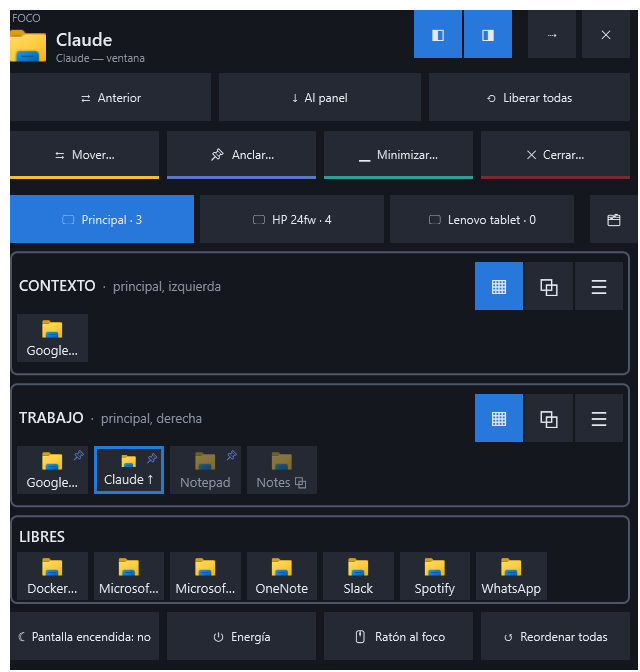
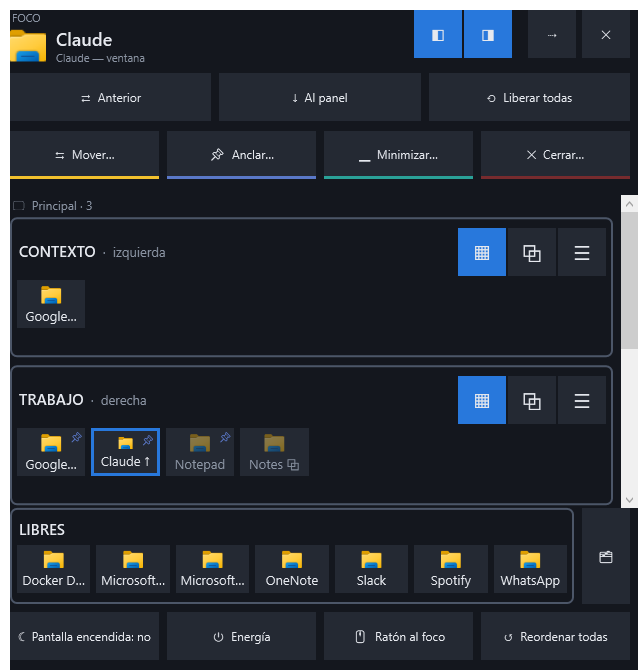
Alfa 0.6.0: todos los monitores en el deck a la vez

diff --git a/src/FocusWShell.App/DeckWindow.cs b/src/FocusWShell.App/DeckWindow.cs
@@ -508,27 +508,43 @@ public sealed class DeckWindow : Window
         }
         else
         {
+            // Todos los monitores no caben en un deck estrecho: la zona de los paneles se desplaza con el dedo,
+            // y debajo quedan fijos LIBRES y Sistema. Cada panel mide lo que piden sus apps.
+            var list = new StackPanel();
             foreach (var (monitor, panels) in monitors)
             {
                 if (monitors.Count > 1)
                 {
-                    row(new TextBlock
+                    list.Children.Add(new TextBlock
                     {
                         Text = monitor.Connected ? $"🖵  {monitor.Name} · {monitor.Apps}" : Core.Text.F(Strings.Deck_TabDisconnected, monitor.Name),
                         Foreground = monitor.Connected ? DimBrush : WarnBrush,
                         FontSize = 12,
                         Margin = new Thickness(2, 2, 0, 4),
-                    }, GridLength.Auto, 0);
+                    });
                 }
 
                 foreach (var panel in panels)
                 {
-                    row(PanelCard(panel), new GridLength(1 + panel.Apps.Count, GridUnitType.Star), 132);
+                    var card = PanelCard(panel);
+                    int rows = Math.Max(1, (int)Math.Ceiling(Visible(panel.Apps).Count / 6.0));
+                    card.Height = 70 + (70 * rows);
+                    list.Children.Add(card);
                 }
             }
+
+            var scroller = new ScrollViewer
+            {
+                Content = list,
+                VerticalScrollBarVisibility = ScrollBarVisibility.Auto,
+                HorizontalScrollBarVisibility = ScrollBarVisibility.Disabled,
+                Focusable = false,
+            };
+            DragToScroll(scroller);
+            row(scroller, new GridLength(3, GridUnitType.Star), 140);
         }
 
-        row(FreeAndPages(state, wide: false), new GridLength(1 + (state.Free.Count / 2.0), GridUnitType.Star), state.Free.Count > 0 ? 90 : 60);
+        row(FreeAndPages(state, wide: false), new GridLength(state.Free.Count > 0 ? 1 : 0.5, GridUnitType.Star), state.Free.Count > 0 ? 100 : 60);
     }
 
     // --- Pestañas por monitor -------------------------------------------------------------------------

diff --git a/src/FocusWShell.App/DeckPreview.cs b/src/FocusWShell.App/DeckPreview.cs
@@ -14,10 +14,12 @@ namespace FocusWShell.App;
 /// </summary>
 public static class DeckPreview
 {
-    /// <summary>Si se dibuja el prototipo del ADR 0020 (monitores apilados) en lugar del deck actual.</summary>
-    private static bool _stacked;
+    /// <summary>Monitores apilados (ADR 0020, el de siempre) o una pestaña por monitor (<c>--pestanas</c>).</summary>
+    private static bool _stacked = true;
 
-    public static void Run(string folder, string? language = null, bool stacked = false)
+    /// <param name="tabs">Dibujar el deck con una pestaña por monitor, como antes del ADR 0020.</param>
+    /// <param name="stackedCases">Sólo los casos que deciden el diseño apilado: dos y tres monitores, muchas apps…</param>
+    public static void Run(string folder, string? language = null, bool tabs = false, bool stackedCases = false)
     {
         if (language is not null)
         {
@@ -25,12 +27,14 @@ public static class DeckPreview
         }
 
         Directory.CreateDirectory(folder);
-        _stacked = stacked;
-        if (stacked)
+        _stacked = !tabs;
+        if (stackedCases)
         {
+            _stacked = true;
             RunStacked(folder);
             return;
         }
+
         var sizes = new[] { ("tablet-entera", 1280, 672), ("media-tablet", 640, 672), ("esquina", 640, 980) };
         foreach (var (name, width, height) in sizes)
         {

diff --git a/src/FocusWShell.App/App.xaml.cs b/src/FocusWShell.App/App.xaml.cs
@@ -159,12 +159,13 @@ public partial class App : Application
         int preview = Array.IndexOf(e.Args, "--deck-preview");
         if (preview >= 0)
         {
-            // "--apilado": el prototipo del ADR 0020 (todos los monitores a la vez, uno arriba del otro).
-            var rest = e.Args.Skip(preview + 1).Where(a => a != "--apilado").ToList();
+            // "--apilado": sólo los casos del diseño apilado (ADR 0020); "--pestanas": el deck con una pestaña por monitor.
+            var rest = e.Args.Skip(preview + 1).Where(a => a is not "--apilado" and not "--pestanas").ToList();
             DeckPreview.Run(
                 rest.Count > 0 ? rest[0] : System.IO.Path.GetTempPath(),
                 rest.Count > 1 ? rest[1] : null,
-                stacked: e.Args.Contains("--apilado"));
+                tabs: e.Args.Contains("--pestanas"),
+                stackedCases: e.Args.Contains("--apilado"));
             Shutdown();
             return;
         }

diff --git a/.github/release-notes/v0.6.0-alpha.md b/.github/release-notes/v0.6.0-alpha.md
@@ -1,0 +1,73 @@
+**FocusWShell 0.6.0-alpha: every monitor in the deck at once, and apps that FocusWShell could not see.** [Español más abajo](#español).
+
+> **It moves your windows.** If anything goes wrong, **Ctrl+Alt+Shift+Backspace** puts every window back where it was, at any time.
+
+## What's new
+
+### Every monitor at once
+
+The deck no longer has a tab per monitor. Every monitor is shown at once, one above the other: its name runs down the left side, and its panels sit side by side in their real order.
+
+- **Every panel is one tap away.** To reach an app on another monitor you no longer switch tabs first.
+- **Moving an app is simpler:** every panel of every monitor is a target at once.
+- **🗂 Pages** moved to the right of **Free**.
+- **On a narrow deck** (half a tablet, a corner of the main screen), the panels scroll with your finger and Free stays below.
+- Prefer the old way? Turn off **Deck: all monitors at once** in **General**.
+
+### Apps that run as administrator
+
+Some apps run as administrator (SADP, for example). Windows doesn't let FocusWShell move them, so they didn't show up in the deck. Now they appear in **Free**, dimmed and with **🛡**, and tapping one brings it to the front. Borderless apps with a minimize button (Qt) are no longer ignored either.
+
+If an app doesn't really need to be administrator, turn off *Run this program as an administrator* in its properties (Compatibility), and FocusWShell organizes it like the rest.
+
+### Store apps with their real name and icon
+
+Some Store apps don't tell Windows which app they are (WhatsApp is one). They showed an internal name ("WhatsApp.Root") and a generic icon; now they take the name and icon of the Start menu.
+
+## Install or update
+
+1. Download `FocusWShell-0.6.0-alpha-win-x64.zip` below.
+2. Extract it to a **new** folder and double-click **install.cmd**. If an earlier version is open, the installer closes it first (putting your windows back) and keeps your settings.
+
+Windows 10 (2004) or 11, 64-bit. No administrator rights; .NET is included. The files are not signed: if Windows shows *"Windows protected your PC"*, choose **More info → Run anyway**. Check the download with the `.sha256` file.
+
+New to FocusWShell? Start with **[Getting started](https://proteo5.github.io/FocusWShell/first-steps/)**. Known limitations: see [Known limitations](https://proteo5.github.io/FocusWShell/limitations/). Please report problems and ideas in [Issues](https://github.com/proteo5/FocusWShell/issues).
+
+---
+
+## Español
+
+**FocusWShell 0.6.0-alpha: todos los monitores en el deck a la vez, y apps que FocusWShell no veía.**
+
+> **Mueve tus ventanas.** Si algo sale mal, **Ctrl+Alt+Mayús+Retroceso** devuelve todas las ventanas a su sitio, en cualquier momento.
+
+### Novedades
+
+#### Todos los monitores a la vez
+
+El deck ya no tiene una pestaña por monitor. Se ven todos los monitores a la vez, uno arriba del otro: su nombre va en vertical a la izquierda, y sus paneles van lado a lado en su orden real.
+
+- **Todos los paneles están a un toque.** Para llegar a una app de otro monitor ya no hay que cambiar de pestaña.
+- **Mover una app es más simple:** todos los paneles de todos los monitores son destino a la vez.
+- **🗂 Páginas** pasó a la derecha de **Libres**.
+- **En un deck estrecho** (media tablet, una esquina del principal), los paneles se desplazan con el dedo y Libres queda abajo.
+- ¿Prefieres lo de antes? Apaga **Deck: todos los monitores a la vez** en **General**.
+
+#### Apps que corren como administrador
+
+Algunas apps corren como administrador (SADP, por ejemplo). Windows no deja que FocusWShell las mueva, así que no salían en el deck. Ahora aparecen en **Libres**, atenuadas y con **🛡**, y tocarlas las trae al frente. Tampoco se ignoran ya las apps sin marco con botón de minimizar (Qt).
+
+Si una app no necesita de verdad ser administrador, quita *Ejecutar este programa como administrador* en sus propiedades (Compatibilidad), y FocusWShell la organiza como a las demás.
+
+#### Apps de la Store con su nombre y su icono
+
+Algunas apps de la Store no le dicen a Windows qué app son (WhatsApp es una). Salían con un nombre interno («WhatsApp.Root») y un icono genérico; ahora toman el nombre y el icono del menú Inicio.
+
+### Instalar o actualizar
+
+1. Descarga `FocusWShell-0.6.0-alpha-win-x64.zip` más abajo.
+2. Descomprímelo en una carpeta **nueva** y haz doble clic en **install.cmd**. Si hay una versión anterior abierta, el instalador la cierra antes (devolviendo tus ventanas) y conserva tu configuración.
+
+Windows 10 (2004) u 11, de 64 bits. Sin permisos de administrador; .NET va incluido. Los archivos no están firmados: si Windows muestra *«Windows protegió tu PC»*, elige **Más información → Ejecutar de todas formas**. Comprueba la descarga con el archivo `.sha256`.
+
+¿Nuevo en FocusWShell? Empieza por **[Primeros pasos](https://proteo5.github.io/FocusWShell/es/primeros-pasos/)**. Limitaciones conocidas: ver [Limitaciones conocidas](https://proteo5.github.io/FocusWShell/es/limitaciones/). Reporta problemas e ideas en [Issues](https://github.com/proteo5/FocusWShell/issues).

diff --git a/site/es/deck.md b/site/es/deck.md
@@ -32,7 +32,7 @@ En su panel, la app del foco lleva un borde azul y **↑**.
 
 **Mover…**, **Anclar…**, **Minimizar…** y **Cerrar…** no actúan al momento: esperan a que toques una app, como Mayús espera una tecla. Los «…», la barra de color debajo y su sitio los distinguen.
 
-- **Mover…** (amarillo): toca una app y luego el panel donde va. La pestaña de otro monitor también sirve, y el foco también: lleva la app al foco.
+- **Mover…** (amarillo): toca una app y luego el panel donde va. Todos los paneles de todos los monitores son destino a la vez, y el foco también: lleva la app al foco.
 - **Anclar…** (índigo): toca una app para anclarla a su panel. Una app anclada sigue en su panel aunque esté cerrada, atenuada, y tocarla la abre ahí.
 - **Minimizar…** (verde azulado): toca una app para minimizarla en su panel. Si ya estaba minimizada, vuelve. El modo se apaga después de un toque, como **Cerrar…**.
 - **Cerrar…** (rojo): toca una app para cerrarla, como con su ✕. Si tiene algo sin guardar, la app pregunta.
@@ -47,7 +47,7 @@ Prende o apaga las columnas de **Contexto** y **Trabajo** del monitor principal 
 
 ## Monitores y paneles
 
-La fila de pestañas de arriba elige de qué monitor ves los paneles. Cada panel muestra sus apps:
+Se ven todos los monitores a la vez, uno arriba del otro: su nombre va en vertical a la izquierda, y sus paneles van lado a lado en su orden real (izquierda, derecha). Si prefieres lo de antes, una pestaña por monitor, apaga **Deck: todos los monitores a la vez** en General. Cada panel muestra sus apps:
 
 - **Toca una app:** al foco. Una libre sólo se trae al frente, y sigue libre.
 - **En un panel en pestañas (o Llenar):** la pestaña que se ve va subrayada. Toca una oculta para verla en su panel y escribir en ella, sin moverla al foco: trabajas en el foco y en ella a la vez. Toca la que se ve para llevarla al foco. Los iconos no cambian de lugar, y la app que sale del foco vuelve como la pestaña que se ve.
@@ -66,8 +66,9 @@ Marcas en una app:
 | ⧉ | Abierta en otro escritorio virtual; tocarla te lleva allí. |
 | ▴ | En la bandeja: la app ocultó su ventana al cerrarla, pero sigue abierta. Tocarla abre la app otra vez, y la app muestra su ventana en el foco. |
 | Borde blanco | En uso: tiene el teclado y el ratón, pero no es la del foco. |
+| 🛡, atenuada (en Libres) | Corre como administrador: FocusWShell no puede moverla. Tocarla la trae al frente. |
 
-**🗂 Páginas**, a la derecha de las pestañas de monitores, muestra las pestañas de tus navegadores. Ver [Páginas de los navegadores]({{ '/es/paginas/' | relative_url }}).
+**🗂 Páginas**, a la derecha de Libres, muestra las pestañas de tus navegadores. Ver [Páginas de los navegadores]({{ '/es/paginas/' | relative_url }}).
 
 ## Libres
 

diff --git a/site/deck.md b/site/deck.md
@@ -32,7 +32,7 @@ In its panel, the focus app has a blue border and **↑**.
 
 **Move…**, **Pin…**, **Minimize…** and **Close…** do not act right away: they wait for you to tap an app, like Shift waits for a key. The «…», the colored bar under them and their position tell them apart.
 
-- **Move…** (yellow): tap an app, then the panel where it goes. Another monitor's tab works too, and so does the focus: it brings the app to the focus.
+- **Move…** (yellow): tap an app, then the panel where it goes. Every panel of every monitor is a target at once, and so is the focus: it brings the app to the focus.
 - **Pin…** (indigo): tap an app to pin it to its panel. A pinned app stays in its panel even when closed, dimmed, and tapping it opens it there.
 - **Minimize…** (teal): tap an app to minimize it in its panel. If it was already minimized, it comes back. The mode turns off after one tap, like **Close…**.
 - **Close…** (red): tap an app to close it, as with its ✕. If it has unsaved work, the app asks.
@@ -47,7 +47,7 @@ Turn the **Context** and **Work** columns of the main screen on or off (blue: on
 
 ## Monitors and panels
 
-The row of tabs at the top chooses which monitor's panels you see. Each panel shows its apps:
+Every monitor is shown at once, one above the other: its name runs down the left side, and its panels sit side by side in their real order (left, right). If you prefer the old way, one tab per monitor, turn off **Deck: all monitors at once** in General. Each panel shows its apps:
 
 - **Tap an app:** to the focus. A free one is only brought to the front, and stays free.
 - **In a panel in tabs (or Fill):** the tab you see is underlined. Tap a hidden one to show it in its panel and type in it, without moving it to the focus: you work in the focus and in it at the same time. Tap the one you see to bring it to the focus. The icons keep their place, and the app that leaves the focus comes back as the tab you see.
@@ -66,8 +66,9 @@ Marks on an app:
 | ⧉ | Open on another virtual desktop; tapping it takes you there. |
 | ▴ | In the tray: the app hid its window when you closed it, but it is still running. Tapping it opens the app again, and the app shows its window in the focus. |
 | White border | In use: it has the keyboard and mouse, but it is not the focus app. |
+| 🛡, dimmed (in Free) | Runs as administrator: FocusWShell can't move it. Tapping it brings it to the front. |
 
-**🗂 Pages**, at the right of the monitor tabs, shows the tabs of your browsers. See [Browser pages]({{ '/browser-pages/' | relative_url }}).
+**🗂 Pages**, at the right of Free, shows the tabs of your browsers. See [Browser pages]({{ '/browser-pages/' | relative_url }}).
 
 ## Free
 

diff --git a/CHANGELOG.md b/CHANGELOG.md
@@ -4,10 +4,15 @@ All notable changes to FocusWShell. Each release has its notes in [`.github/rele
 
 Todos los cambios importantes de FocusWShell. Cada versión tiene sus notas en [`.github/release-notes/`](.github/release-notes/).
 
-## Unreleased / Sin publicar
+## 0.6.0-alpha
 
+The deck shows every monitor at once, and apps that FocusWShell could not see now show up. / El deck muestra todos los monitores a la vez, y aparecen apps que FocusWShell no veía.
+
+- The deck shows every monitor at once, one above the other, without tabs: every panel is one tap away, and when moving an app all panels are targets. Pages moved to the right of Free. To go back to one tab per monitor, turn off "Deck: all monitors at once" in General. / El deck muestra todos los monitores a la vez, uno arriba del otro, sin pestañas: todos los paneles están a un toque, y al mover una app todos los paneles son destino. Páginas pasó a la derecha de Libres. Para volver a una pestaña por monitor, apaga «Deck: todos los monitores a la vez» en General.
 - Fixed: Store apps whose window does not give its app ID (WhatsApp) showed an internal name ("WhatsApp.Root") and a generic icon. They now take the name and icon of the Start menu. / Corregido: las apps de la Store cuya ventana no da su id de app (WhatsApp) salían con un nombre interno («WhatsApp.Root») y un icono genérico. Ahora toman el nombre y el icono del menú Inicio.
 - The deck now shows the apps that run as administrator (SADP, for example), in Free, dimmed and with 🛡: FocusWShell can't move them, but tapping one brings it to the front. Borderless apps with a minimize button (Qt) are no longer ignored. / El deck ahora muestra las apps que corren como administrador (SADP, por ejemplo), en Libres, atenuadas y con 🛡: FocusWShell no puede moverlas, pero tocarlas las trae al frente. Las apps sin marco con botón de minimizar (Qt) ya no se ignoran.
+
+Notes / Notas: [v0.6.0-alpha](.github/release-notes/v0.6.0-alpha.md)
 
 ## 0.5.0-alpha
 

diff --git a/docs/05-hoja-de-ruta.md b/docs/05-hoja-de-ruta.md
@@ -58,6 +58,8 @@ Objetivo: manejar el escritorio por paneles propios y vistas, con un deck opcion
 7. **La ventana principal, moderna**, con WPF-UI: navegación lateral, Inicio con el mapa de monitores, panel aplicado al momento, tema claro u oscuro y «Acerca de» ([ADR 0017](adr/0017-ventana-principal-wpf-ui.md)). **Hecho** (0.2.0-alpha).
 8. **El foco con lugar propio en el deck**, el modo Minimizar y las apps que se cierran a la bandeja ([ADR 0013, enmienda](adr/0013-deck-superficie-de-control.md#enmienda-el-lugar-del-foco-y-el-modo-minimizar-2026-11-13), [ADR 0018](adr/0018-apps-en-la-bandeja.md)). **Hecho** (0.3.0-alpha).
 9. **Actividad**: cuánto pasa cada app en el foco y en uso, y el tiempo en paralelo; en el deck, la app en uso junto a la del foco ([ADR 0019](adr/0019-actividad-foco-y-uso.md)). **Hecho** (0.4.0-alpha): la medición y el día; en 0.5.0-alpha, los sitios de los navegadores. Después: pares, línea del día, semana y exportar.
+10. **El deck con todos los monitores a la vez**, uno arriba del otro, sin pestañas ([ADR 0020](adr/0020-deck-monitores-apilados.md)). **Hecho** (0.6.0-alpha).
+11. **El deck por la red**: una app web que sirve FocusWShell, para Android e iPad sin Apollo (fase 3 del [ADR 0013](adr/0013-deck-superficie-de-control.md)). Siguiente: ADR 0021 y un spike.
 
 Criterio de salida: una semana de uso diario cambiando de vista y llevando apps al foco desde el deck, sin tocar los atajos.
 

diff --git a/docs/adr/0020-deck-monitores-apilados.md b/docs/adr/0020-deck-monitores-apilados.md
@@ -1,6 +1,6 @@
 # ADR 0020 — El deck muestra todos los monitores a la vez, uno arriba del otro
 
-- **Estado:** Propuesta (spike de diseño, 2026-11-26)
+- **Estado:** Aceptada (0.6.0-alpha; propuesta y prototipo del 2026-11-26)
 - **Fecha:** 2026-11-26
 
 ## Contexto
@@ -55,3 +55,11 @@ Lo que se vio:
 
 - Todas las apps de todos los monitores se ven y se tocan de un toque, sin cambiar de pestaña.
 - En la esquina del principal, con tres monitores, la zona de paneles puede necesitar desplazarse. El prototipo dirá si basta con eso o si hacen falta iconos más pequeños en ese tamaño.
+
+## Aceptación (0.6.0-alpha)
+
+Tras varios días de uso diario, el diseño apilado funciona mejor que las pestañas y queda como el de siempre. Ajustes desde el prototipo:
+
+- Los botones de presentación de cada panel siguen a la vista (el menú ⋯ se descartó).
+- En el deck estrecho (media tablet, esquina del principal), la zona de paneles se desplaza con el dedo y Libres y Sistema quedan fijos debajo; cada panel mide lo que piden sus apps.
+- El interruptor de General sigue para volver a una pestaña por monitor.

diff --git a/site/es/ventana-principal.md b/site/es/ventana-principal.md
@@ -81,7 +81,7 @@ Apps que FocusWShell nunca debe tocar, por ejecutable, AUMID o clase de ventana.
 
 - **Idioma:** automático (el de Windows), inglés o español. Se aplica al reiniciar FocusWShell.
 - **Tema:** automático (sigue a Windows), claro u oscuro. Se aplica al momento. El deck mantiene su propio aspecto.
-- **Iniciar con Windows** y **Mantener la pantalla encendida**.
+- **Iniciar con Windows**, **Mantener la pantalla encendida** y **Deck: todos los monitores a la vez** (prendido: todos los monitores en el deck, uno arriba del otro; apagado: una pestaña por monitor).
 - **Acerca de:** la versión y la compilación, enlaces a este manual, a las versiones, a reportar un problema, al código fuente y a la carpeta de configuración, la licencia y los componentes de código abierto que usa.
 
 ## Menú de la bandeja

diff --git a/site/main-window.md b/site/main-window.md
@@ -81,7 +81,7 @@ Apps FocusWShell should never touch, by executable, AUMID or window class. See [
 
 - **Language:** automatic (the one of Windows), English or Spanish. It applies when FocusWShell restarts.
 - **Theme:** automatic (follows Windows), light or dark. It applies right away. The deck keeps its own look.
-- **Start with Windows** and **Keep the screen on**.
+- **Start with Windows**, **Keep the screen on** and **Deck: all monitors at once** (on: every monitor in the deck, one above the other; off: one tab per monitor).
 - **About:** the version and the build, links to this manual, the releases, reporting a problem, the source code and the settings folder, the license and the open source components it uses.
 
 ## Tray menu

diff --git a/docs/README.md b/docs/README.md
@@ -41,7 +41,7 @@ Esta carpeta es la documentación de ingeniería del proyecto. Parte de las nota
 | [0017](adr/0017-ventana-principal-wpf-ui.md) | La ventana principal con WPF-UI: configurar y ver el estado | Aceptada |
 | [0018](adr/0018-apps-en-la-bandeja.md) | Apps que se cierran a la bandeja: no mostrarlas nosotros | Aceptada |
 | [0019](adr/0019-actividad-foco-y-uso.md) | Actividad: tiempo en el foco y en uso, local y opcional | Aceptada |
-| [0020](adr/0020-deck-monitores-apilados.md) | El deck muestra todos los monitores a la vez, uno arriba del otro | Propuesta |
+| [0020](adr/0020-deck-monitores-apilados.md) | El deck muestra todos los monitores a la vez, uno arriba del otro | Aceptada |
 
 ## Fuentes
 
